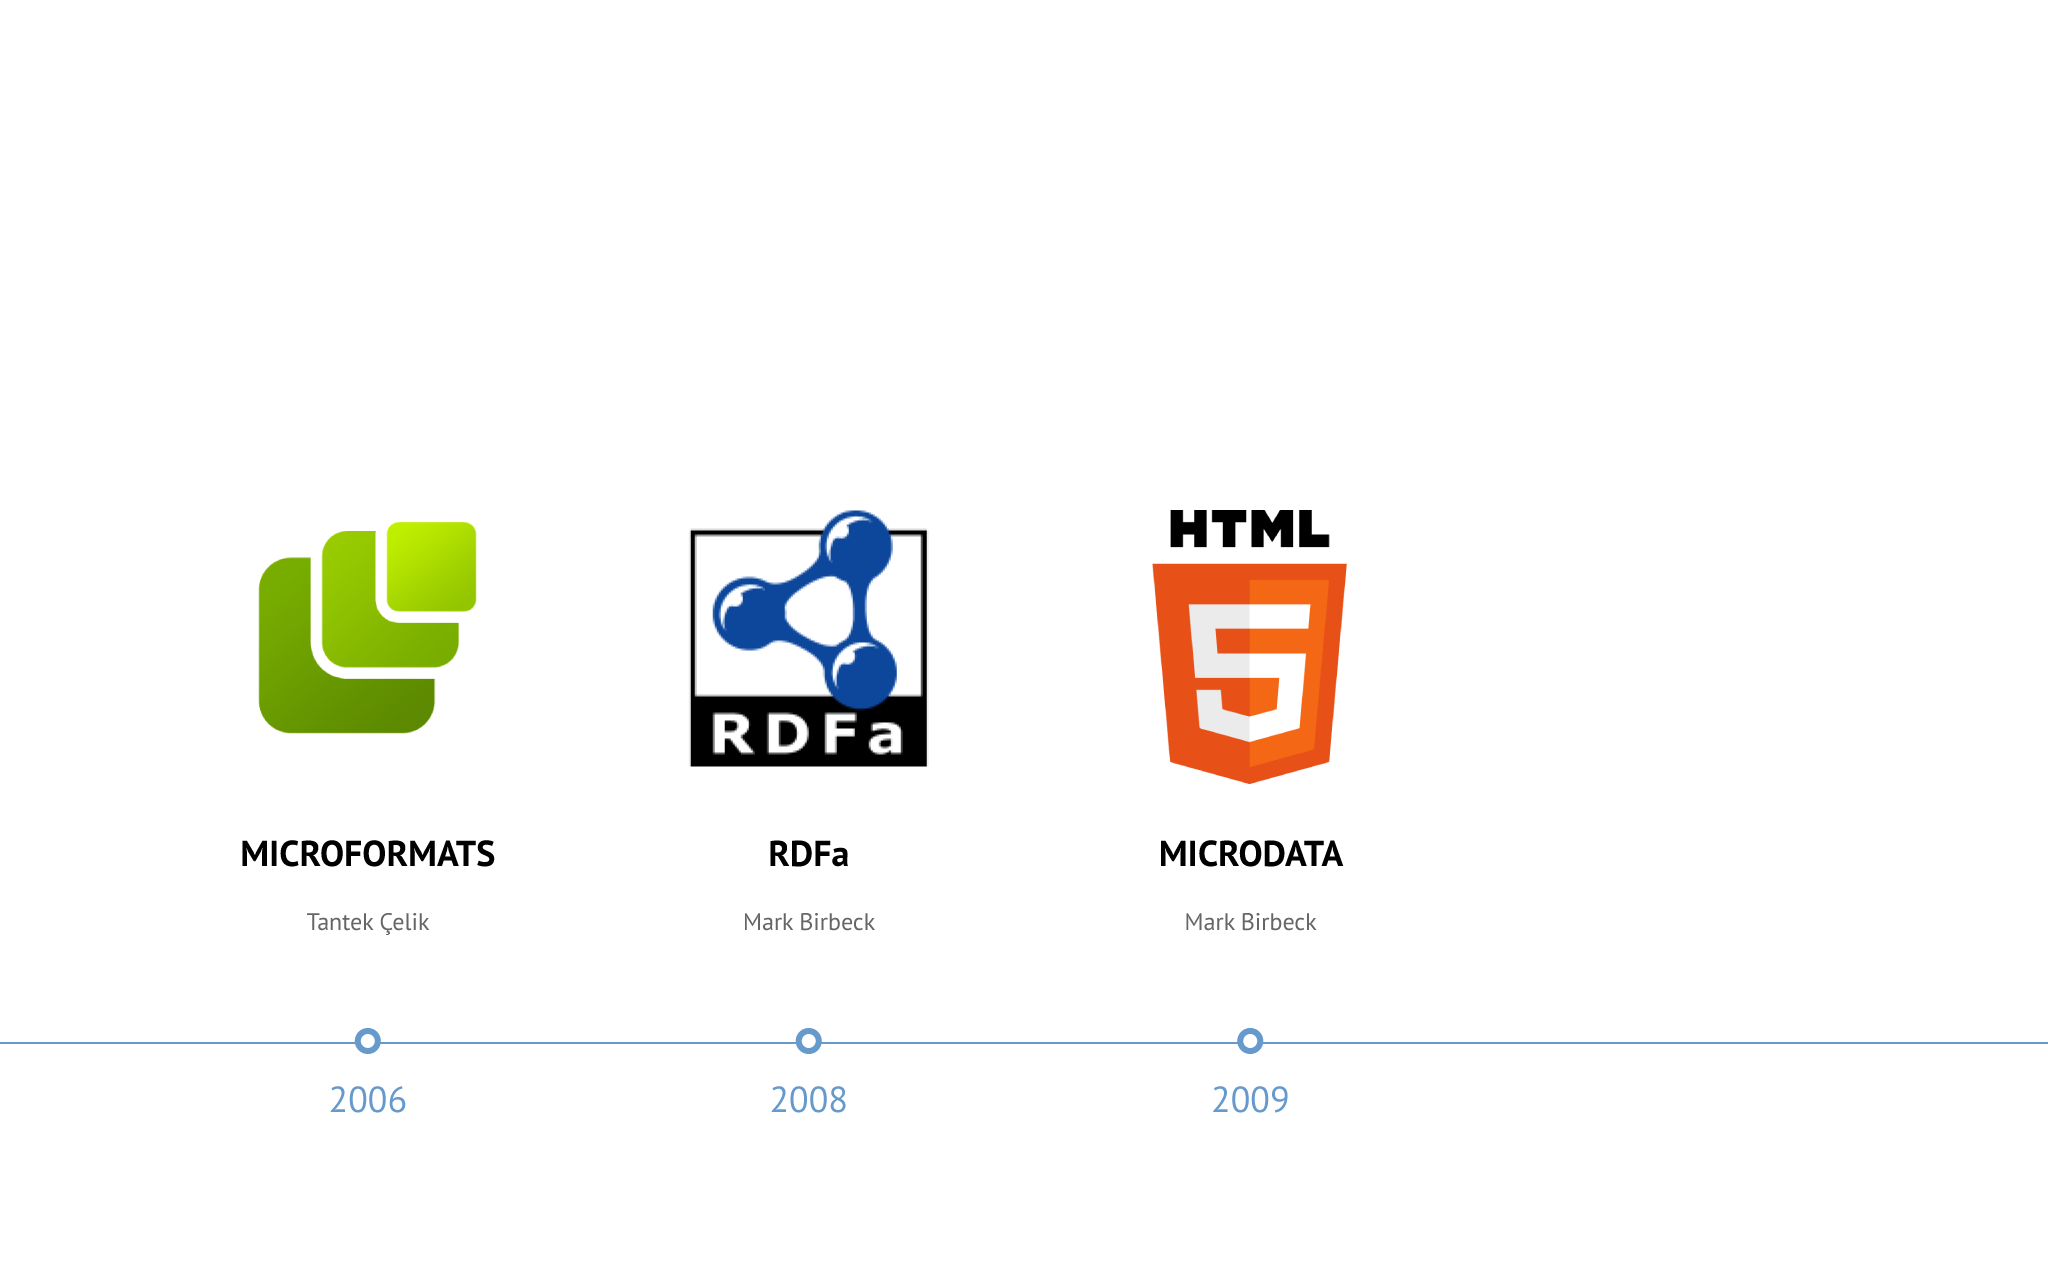
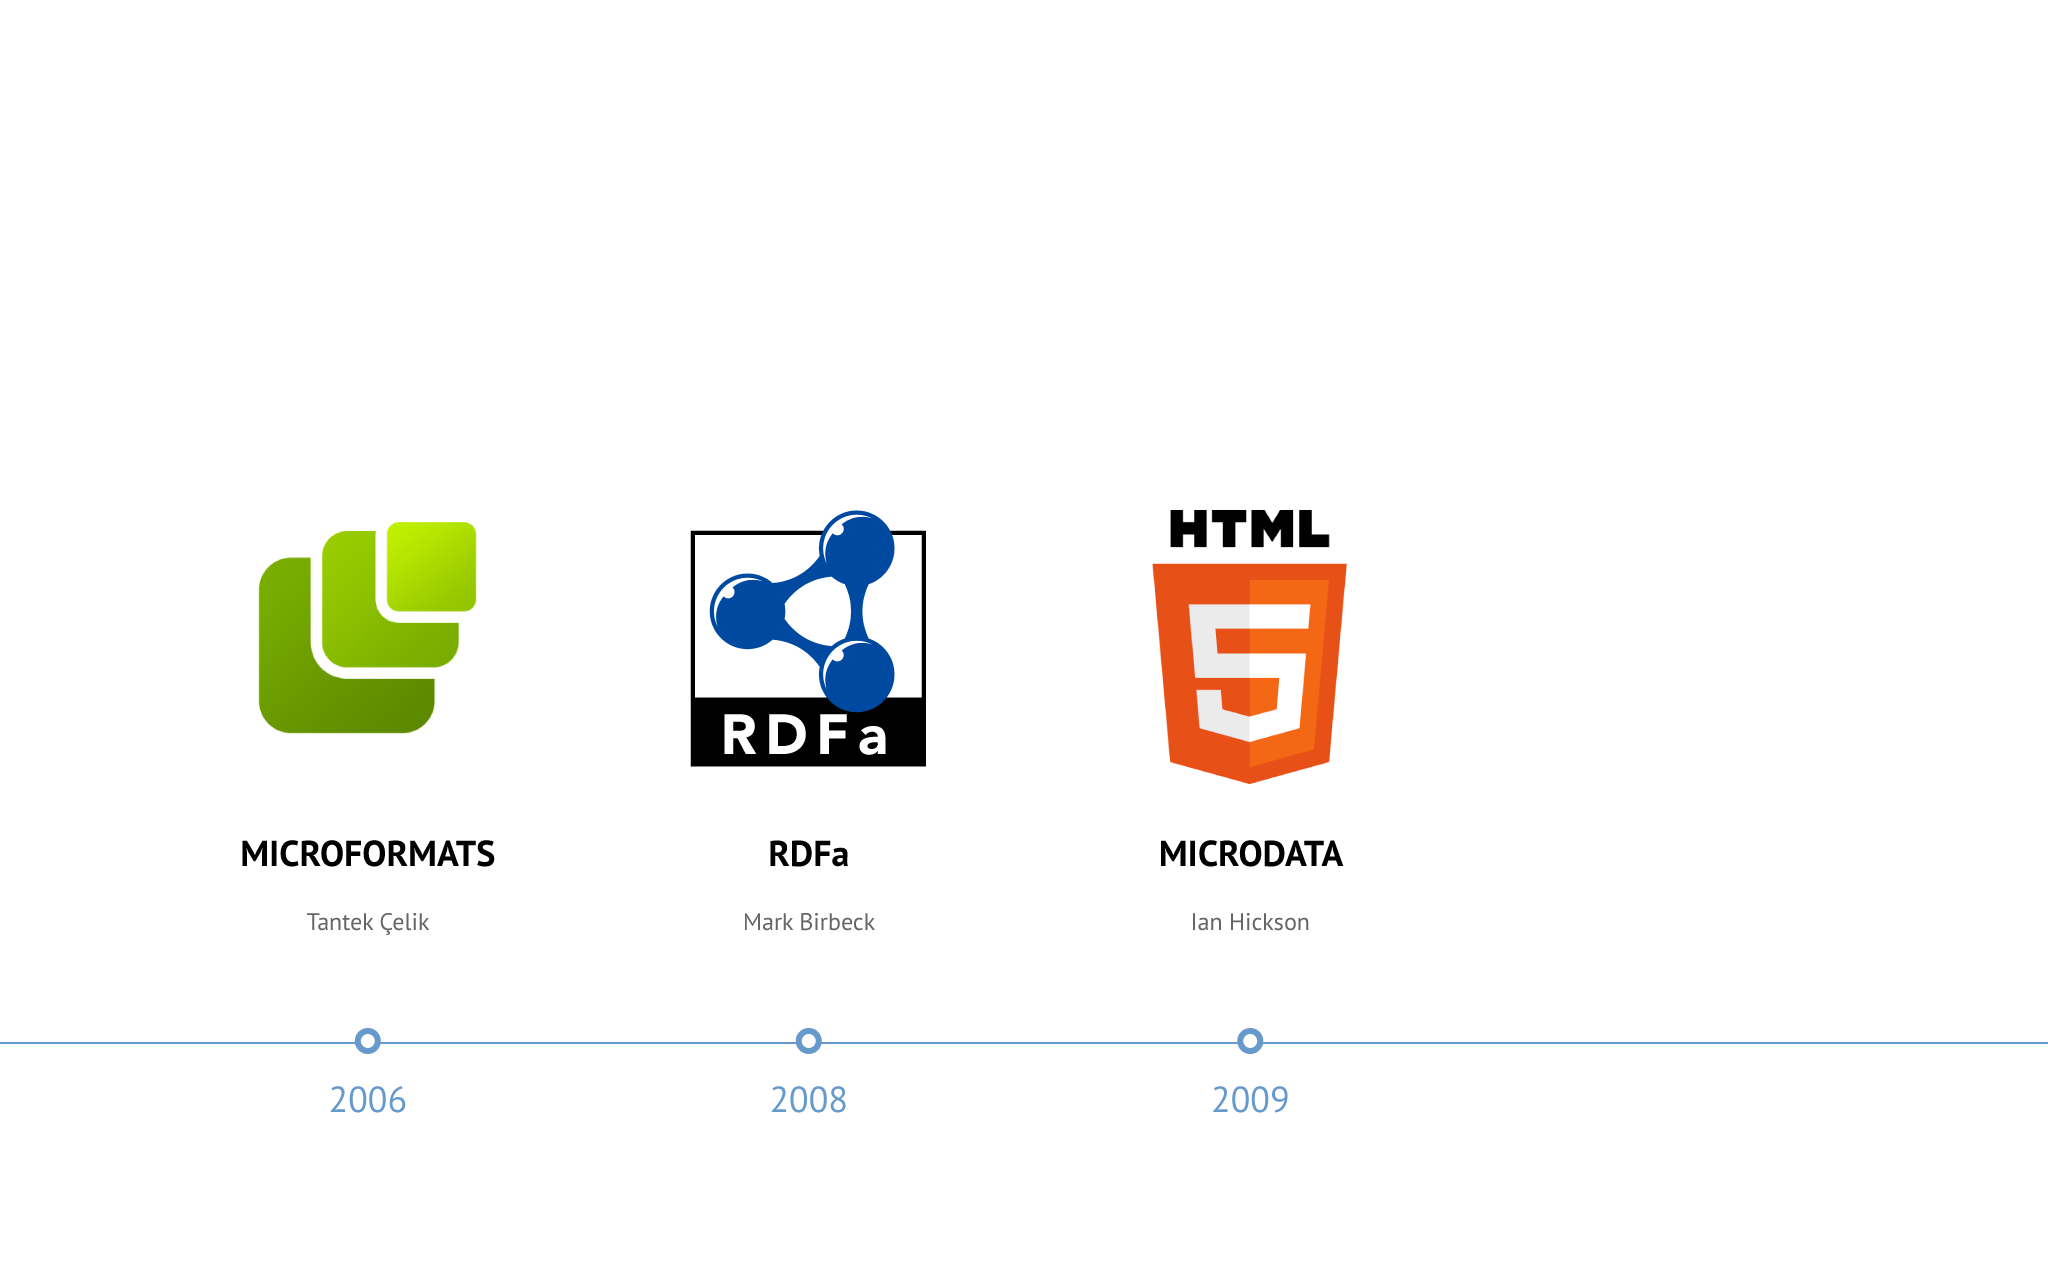
styles for chart slides added

Changed region(s): [[0.3438, 0.4062, 0.4375, 0.5938], [0.5938, 0.7188, 0.625, 0.75]]

diff --git a/index.html b/index.html
@@ -150,36 +150,31 @@
     <section class="slide">
         <div>
             <h2>Синтаксисы</h2>
-            <ul class="timeline">
-                <li>
-                    MICROFORMATS
-                    <br>
-                    <img src="images/formats/microformats.png">
-                    <br> Tantek Çelik
-                    <br> 2006
-                </li>
-                <li>
-                    RDFA
-                    <br>
-                    <img src="images/formats/rdfa.png">
-                    <br> Mark Birbeck
-                    <br> 2008
-                </li>
-                <li>
-                    MICRODATA
-                    <br>
-                    <img src="images/formats/microdata.png">
-                    <br> Ian Hickson
-                    <br> 2009
-                </li>
-                <li>
-                    JSON-LD
-                    <br>
-                    <img src="images/formats/json-ld.png">
-                    <br> Manu Sporny
-                    <br> 2010
-                </li>
-            </ul>
+            
+        </div>
+    </section>
+    <section class="slide cover w">
+        <div>
+            <h2>Синтаксисы</h2>
+            <img src="images/syntaxes/presentation-timeline-01.png">
+        </div>
+    </section>
+    <section class="slide cover w">
+        <div>
+            <h2>Синтаксисы</h2>
+            <img src="images/syntaxes/presentation-timeline-02.png">
+        </div>
+    </section>
+    <section class="slide cover w">
+        <div>
+            <h2>Синтаксисы</h2>
+            <img src="images/syntaxes/presentation-timeline-03.png">
+        </div>
+    </section>
+    <section class="slide cover w">
+        <div>
+            <h2>Синтаксисы</h2>
+            <img src="images/syntaxes/presentation-timeline-04.png">
         </div>
     </section>
     <section class="slide">
@@ -242,9 +237,28 @@
 			</pre>
         </div>
     </section>
-    <section class="slide cover w" style="background: #FFF;">
+    <section class="slide">
         <div>
-            <img src="images/chart.jpg" alt="">
+            <h2>2010</h2>
+            <img src="images/syntaxes/2010.svg" class="place" style="margin-top: -50px;">
+            <p style="margin-top:370px;">
+            По данным <a href="http://www.webdatacommons.org/structureddata/" target="_blank">Web Data Commons</a></p>
+        </div>
+    </section>
+    <section class="slide">
+        <div>
+            <h2>2012</h2>
+            <img src="images/syntaxes/2012.svg" class="place" style="margin-top: -50px;">
+            <p style="margin-top:370px;">
+            По данным <a href="http://www.webdatacommons.org/structureddata/" target="_blank">Web Data Commons</a></p>
+        </div>
+    </section>
+    <section class="slide">
+        <div>
+            <h2>2014</h2>
+            <img src="images/syntaxes/2014.svg" class="place" style="margin-top: -50px;">
+            <p style="margin-top:370px;">
+            По данным <a href="http://www.webdatacommons.org/structureddata/" target="_blank">Web Data Commons</a></p>
         </div>
     </section>
     <section class="slide">
@@ -451,7 +465,7 @@
                 <li>Рецепт</li>
                 <li>Товар</li>
                 <li>Организация</li>
-                <li>Регистрация на событие</li>
+                <li>Событие</li>
                 <li>Приложение</li>
                 <li>Видео</li>
                 <li>Статья</li>
@@ -536,13 +550,13 @@
             </pre>
         </div>
     </section>
-    <section class="slide">
+    <!-- <section class="slide">
         <div>
             <h2>Действия</h2>
             <img src="images/emails/click-actions.png" alt="" width="350">
             <img src="images/emails/go-actions.png" width="350" alt="">
         </div>
-    </section>
+    </section> -->
     <section class="slide">
         <div>
             <h2>О чем рассказать в письме?</h2>
@@ -550,7 +564,7 @@
                 <li>Действия</li>
                 <li>Заказ из интернет магазина</li>
                 <li>Статус доставки</li>
-                <li>События</li>
+                <li>Регистрации на событие</li>
                 <li>Статьи</li>
                 <li>Информация о полете</li>
                 <li>Бронирование отеля, ресторана</li>
